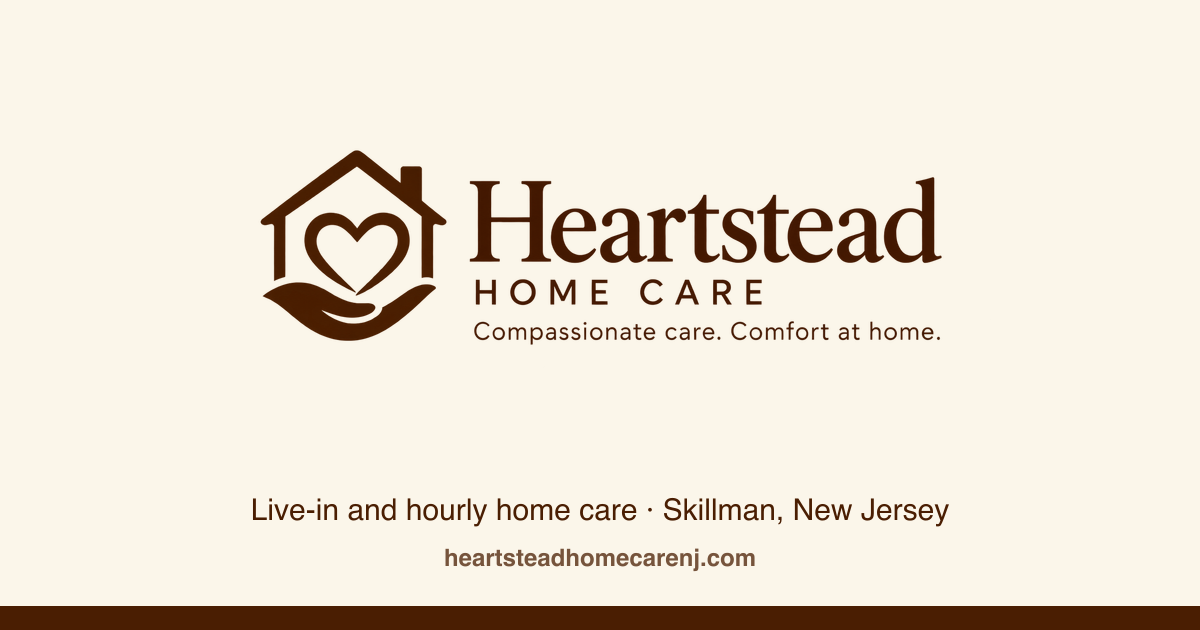
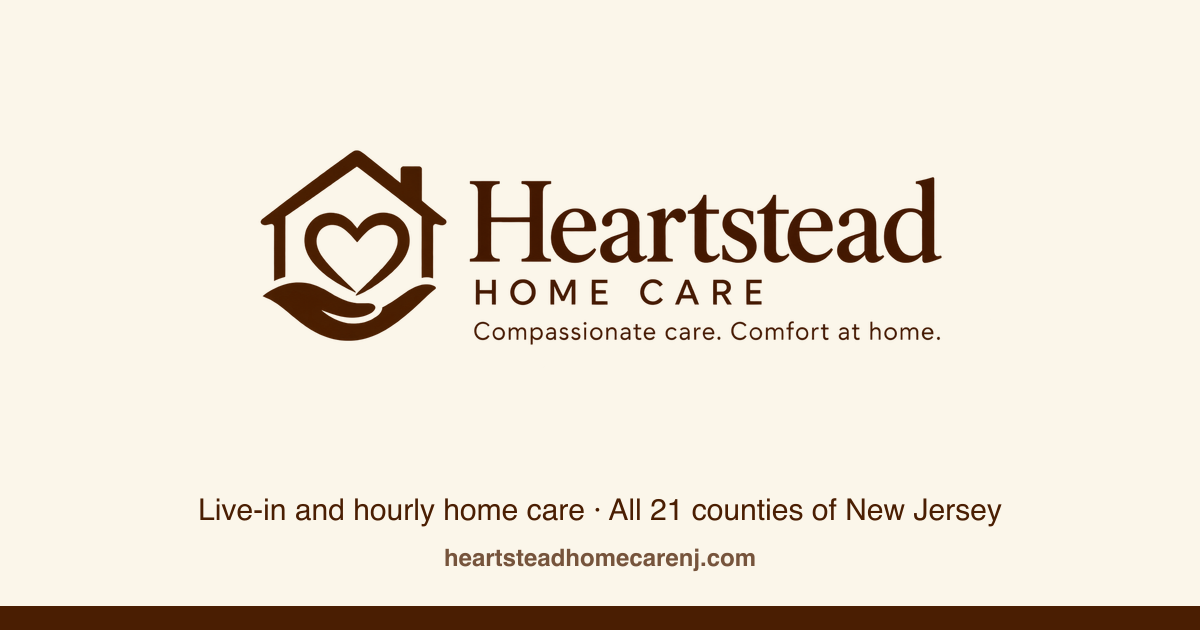
Describe the service area as all 21 counties of New Jersey
Update the Service Area page, service area setting, homepage label,
site title and description, app manifest, share image and the business
structured data (area served: State of New Jersey) to match the
client's About page.

Changed region(s): [[0.1542, 0.7841, 0.8325, 0.8444]]

diff --git a/src/lib/site-data.ts b/src/lib/site-data.ts
@@ -112,7 +112,7 @@ export const defaultSite: SiteData = {
     phone: "609-910-2632",
     publicEmail: "Heartsteadh@gmail.com",
     address: "23 Orchard Rd, Suite 210, Skillman, New Jersey 08558",
-    serviceArea: "Skillman and surrounding New Jersey communities",
+    serviceArea: "all 21 counties of New Jersey",
     heroImage: img.hero,
     heroImageAlt: "Heartstead caregiver laughing with an older man on the sofa at home",
     heroCoverImage: "/images/family-care.webp",
@@ -173,7 +173,7 @@ export const defaultSite: SiteData = {
     paymentIntro: "Our team will explain the costs clearly, answer your questions, and help you understand the next steps. Contact us to talk through your options.",
     paymentHowWeHelp: "Start with the support your loved one needs and the schedule you have in mind. Our team can discuss the services available, explain the next steps, and share current payment details directly with you before care is arranged.",
     paymentChecklist: "Current rates and minimum visit length\nHow changes to the schedule are handled\nWhich payment methods Heartstead accepts\nAny documents an insurer or benefit program requires",
-    serviceAreaLead: "Home care rooted in Skillman, New Jersey.",
+    serviceAreaLead: "Home care across all 21 counties of New Jersey, from our office in Skillman.",
     testimonialsLead: "Hear from clients and families about their experiences with Heartstead Home Care.",
     privacyPolicy: "DRAFT FOR OWNER REVIEW. Heartstead Home Care receives the details you choose to submit through this website’s inquiry and application forms. We use that information to respond to your request. Website administrators authorized by Heartstead can access these submissions. Please do not submit Social Security numbers, medical records, or detailed health information through public forms. Heartstead must approve this policy, including retention, vendors, and contact rights, before public launch.",
     termsOfService: "DRAFT FOR OWNER REVIEW. This website provides general information about Heartstead Home Care and a way to contact the team. Submitting a form does not establish a care relationship or guarantee service availability. The details of any care arrangement will be confirmed directly with Heartstead. Heartstead must approve final terms before public launch.",

diff --git a/src/app/service-area/page.tsx b/src/app/service-area/page.tsx
@@ -5,5 +5,5 @@ import { getSiteData } from "@/lib/content";
 export const metadata = { title: "Service Area" };
 export default async function ServiceAreaPage() {
   const site = await getSiteData();
-  return <><section className="simple-hero"><div className="container"><h1>Our Service Area</h1><p>{site.pages.serviceAreaLead}</p></div></section><section className="content-section container two-col"><div><p className="eyebrow">One office, personal service</p><h2>Care close to home</h2><p>Heartstead Home Care is based at {site.settings.address}. Contact our team to confirm availability at your ZIP code.</p><p>{site.settings.serviceArea}</p><Link className="button" href="/contact">Ask About Care in Your Area</Link></div><div className="soft-card"><h3>Visit or call</h3><p>{site.settings.address}</p><a href={`tel:${site.settings.phone.replace(/\D/g, "")}`}>{site.settings.phone}</a><a href={`https://www.google.com/maps/search/?api=1&query=${encodeURIComponent(site.settings.address)}`} target="_blank" rel="noopener noreferrer">Get Directions <ArrowUpRight aria-hidden="true" size={17} strokeWidth={1.8}/></a></div></section></>;
+  return <><section className="simple-hero"><div className="container"><h1>Our Service Area</h1><p>{site.pages.serviceAreaLead}</p></div></section><section className="content-section container two-col"><div><p className="eyebrow">One office, personal service</p><h2>Care close to home</h2><p>Heartstead Home Care is based at {site.settings.address}. Contact our team to confirm availability at your ZIP code.</p><p>We serve {site.settings.serviceArea}.</p><Link className="button" href="/contact">Ask About Care in Your Area</Link></div><div className="soft-card"><h3>Visit or call</h3><p>{site.settings.address}</p><a href={`tel:${site.settings.phone.replace(/\D/g, "")}`}>{site.settings.phone}</a><a href={`https://www.google.com/maps/search/?api=1&query=${encodeURIComponent(site.settings.address)}`} target="_blank" rel="noopener noreferrer">Get Directions <ArrowUpRight aria-hidden="true" size={17} strokeWidth={1.8}/></a></div></section></>;
 }

diff --git a/src/app/layout.tsx b/src/app/layout.tsx
@@ -9,13 +9,13 @@ import "./globals.css";
 import "./site.css";
 import "./luxury.css";
 
-const description = "Compassionate live-in and hourly home care in Skillman, New Jersey, serving Montgomery Township and surrounding Somerset and Mercer County communities.";
+const description = "Compassionate live-in and hourly home care across all 21 counties of New Jersey, from our office in Skillman.";
 
 // Link-preview titles fall back to each page's <title>, so only shared fields are set here.
 export async function generateMetadata(): Promise<Metadata> {
   return {
     metadataBase: new URL(await requestOrigin()),
-    title: { default: "Heartstead Home Care | Home Care in Skillman, New Jersey", template: "%s | Heartstead Home Care" },
+    title: { default: "Heartstead Home Care | Home Care Across New Jersey", template: "%s | Heartstead Home Care" },
     description,
     applicationName: "Heartstead Home Care",
     openGraph: { type: "website", siteName: "Heartstead Home Care", locale: "en_US", description },
@@ -46,7 +46,7 @@ function businessSchema(settings: SiteData["settings"]) {
     telephone: digits.length === 10 ? `+1-${digits.slice(0, 3)}-${digits.slice(3, 6)}-${digits.slice(6)}` : settings.phone,
     email: settings.publicEmail,
     address,
-    areaServed: ["Skillman, New Jersey", "Montgomery Township, New Jersey", "Somerset County, New Jersey", "Mercer County, New Jersey"].map((name) => ({ "@type": "Place", name })),
+    areaServed: { "@type": "State", name: "New Jersey", description: "All 21 counties of New Jersey" },
   };
 }
 

diff --git a/src/app/page.tsx b/src/app/page.tsx
@@ -16,7 +16,7 @@ export default async function HomePage() {
       </div>
       <div className="hero-cover-shade" aria-hidden="true"/>
       <div className="container hero-cover-content">
-        <p className="hero-kicker">Heartstead Home Care <span aria-hidden="true">✦</span> Skillman, New Jersey</p>
+        <p className="hero-kicker">Heartstead Home Care <span aria-hidden="true">✦</span> All 21 counties of New Jersey</p>
         <h1>{home.heroTitle}</h1>
         <p className="hero-line">{settings.tagline}</p>
         <div className="hero-actions">

diff --git a/src/app/manifest.ts b/src/app/manifest.ts
@@ -4,7 +4,7 @@ export default function manifest(): MetadataRoute.Manifest {
   return {
     name: "Heartstead Home Care",
     short_name: "Heartstead",
-    description: "Compassionate live-in and hourly home care in Skillman, New Jersey.",
+    description: "Compassionate live-in and hourly home care across all 21 counties of New Jersey.",
     start_url: "/",
     display: "standalone",
     background_color: "#FBF6EA",
